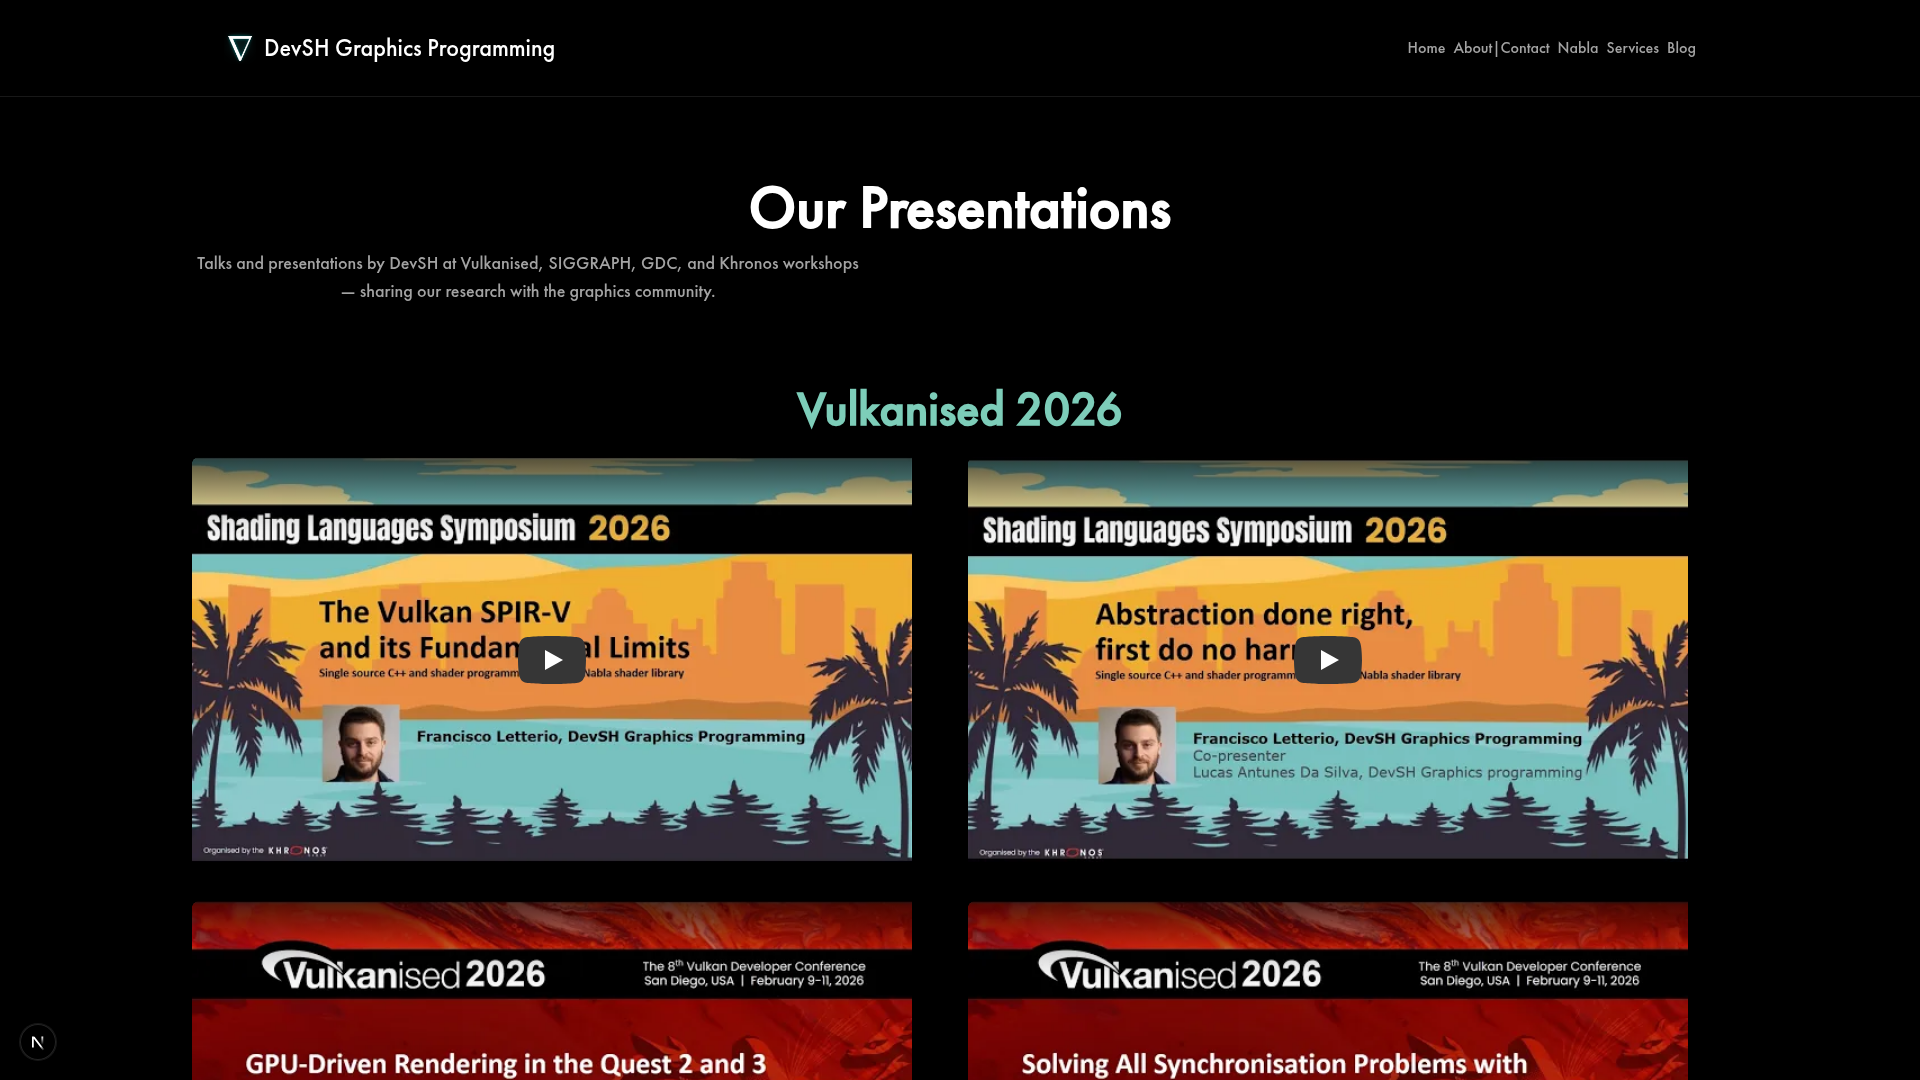
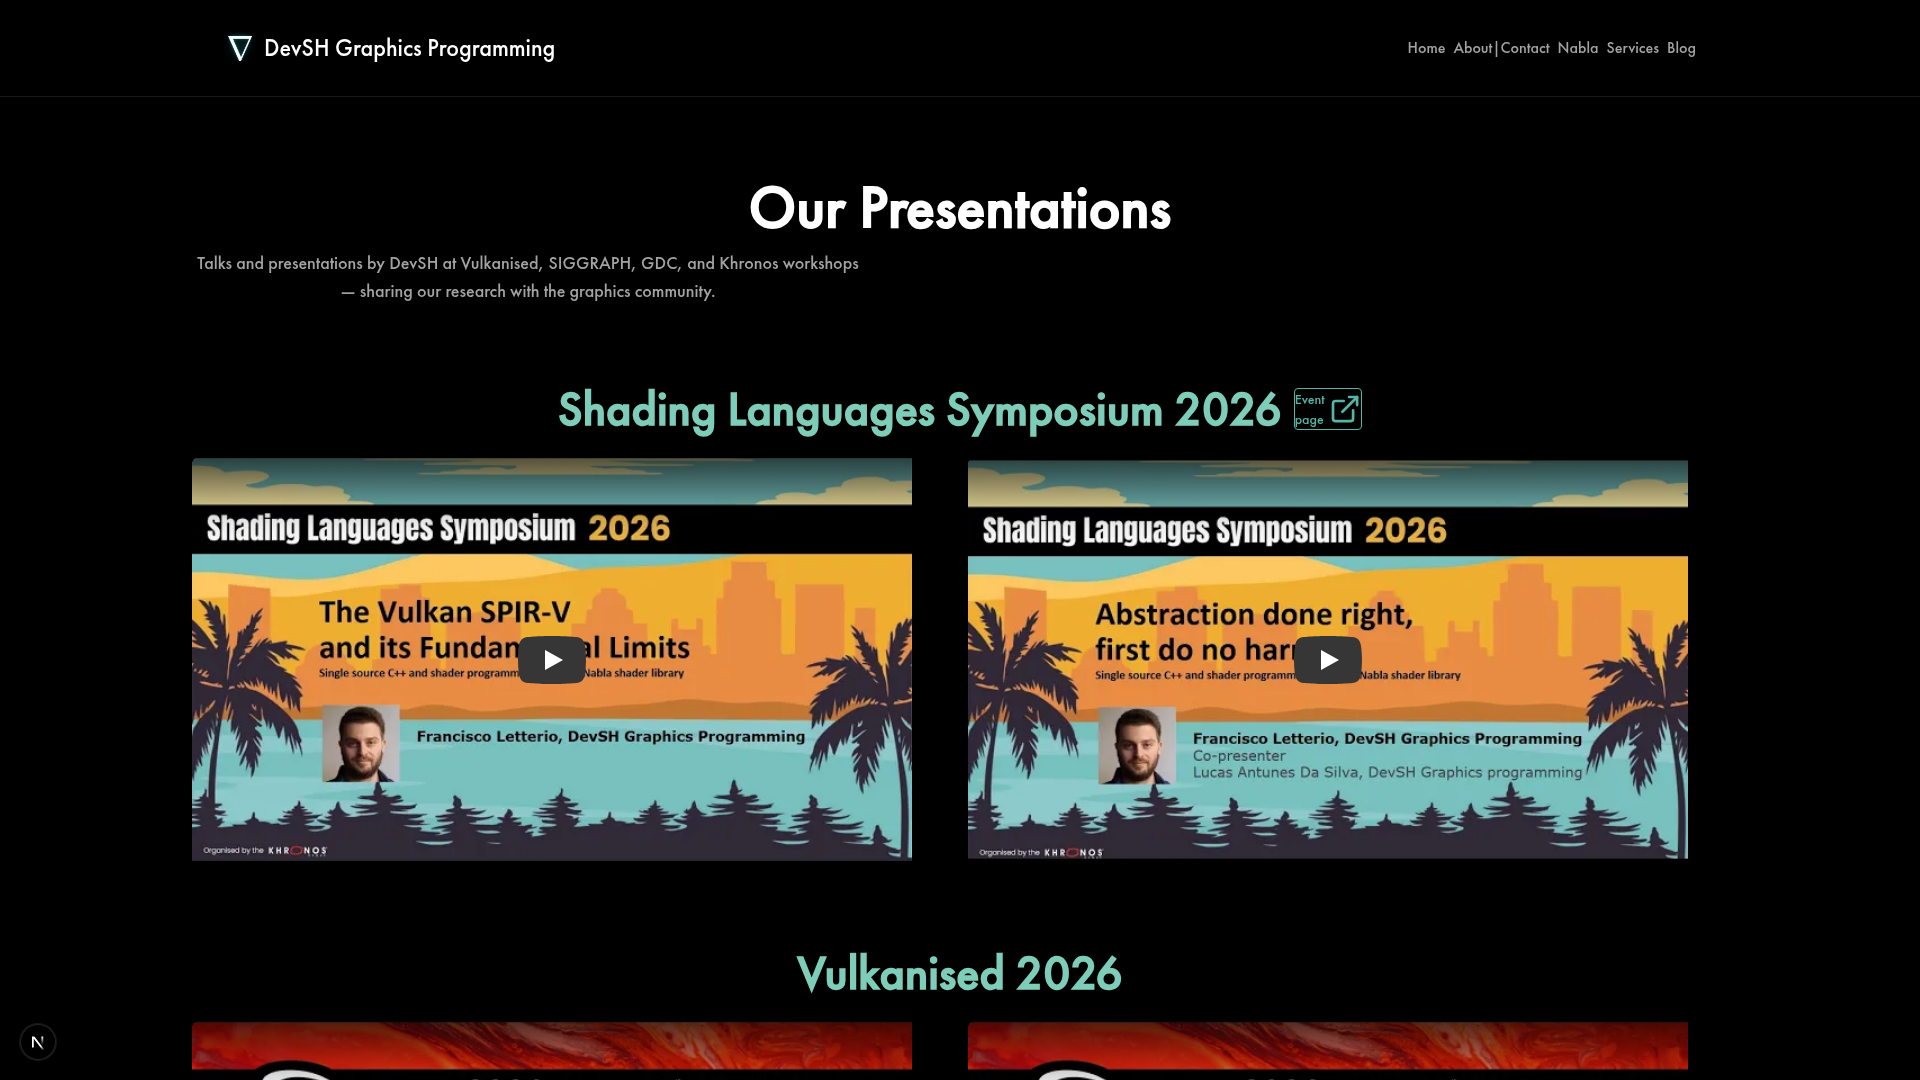
Organize presentation videos by event with links
Update `app/data/vulkanised.json` to structure video data by event title and optional URL, and modify `app/presentations/page.tsx` to display events with associated links.

Changed region(s): [[0.0938, 0.825, 0.9062, 1.0], [0.2812, 0.3667, 0.7188, 0.3972]]

diff --git a/app/presentations/page.tsx b/app/presentations/page.tsx
@@ -25,12 +25,47 @@ export default function PresentationsPage() {
       </div>
 
       <div className="flex flex-col gap-12 sm:gap-16">
-        {vulkanisedData.map((yearData) => (
-          <section key={yearData.year}>
-            <h2 className="!mt-0 !mb-6 text-center" style={{ color: "var(--brand-accent-bright)" }}>
-              Vulkanised {yearData.year}
-            </h2>
-            <VideoGrid videos={yearData.videos} />
+        {vulkanisedData.map((event) => (
+          <section key={event.title}>
+            <div className="flex items-center justify-center gap-3 mb-6">
+              <h2
+                className="!m-0 text-center"
+                style={{ color: "var(--brand-accent-bright)" }}
+              >
+                {event.title}
+              </h2>
+              {event.url && (
+                <a
+                  href={event.url}
+                  target="_blank"
+                  rel="noopener noreferrer"
+                  title={`${event.title} event page`}
+                  className="inline-flex items-center gap-1 text-xs sm:text-sm font-medium px-2.5 py-1 rounded border transition-colors duration-200 hover:bg-white/5 flex-shrink-0"
+                  style={{
+                    borderColor: "var(--brand-accent)",
+                    color: "var(--brand-accent)",
+                  }}
+                >
+                  Event page
+                  <svg
+                    xmlns="http://www.w3.org/2000/svg"
+                    viewBox="0 0 24 24"
+                    fill="none"
+                    stroke="currentColor"
+                    strokeWidth="2"
+                    strokeLinecap="round"
+                    strokeLinejoin="round"
+                    className="w-3 h-3"
+                    aria-hidden="true"
+                  >
+                    <path d="M18 13v6a2 2 0 01-2 2H5a2 2 0 01-2-2V8a2 2 0 012-2h6" />
+                    <polyline points="15 3 21 3 21 9" />
+                    <line x1="10" y1="14" x2="21" y2="3" />
+                  </svg>
+                </a>
+              )}
+            </div>
+            <VideoGrid videos={event.videos} />
           </section>
         ))}
       </div>
